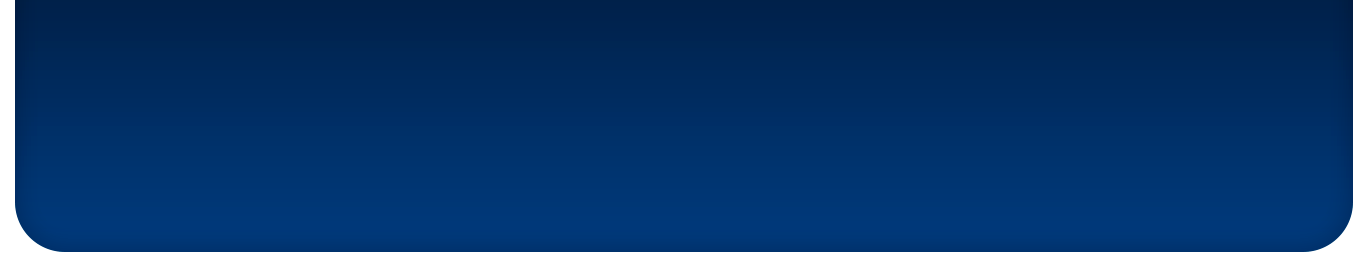
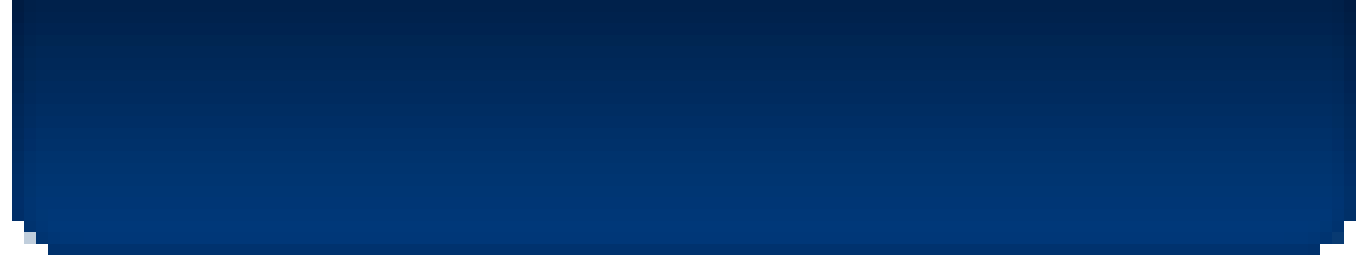
feat: use pixel art

diff --git a/src/widgets/game-stats/ui/GameStats.ts b/src/widgets/game-stats/ui/GameStats.ts
@@ -30,11 +30,11 @@ export class GameStats extends Container {
 
   private createAttemptsLeftText() {
     const text = new Text('', {
-      fontSize: 270,
+      fontSize: 200,
     });
     text.anchor.set(0.5);
-    text.x = this.frame.width * 0.5;
-    text.y = this.frame.height * 0.29;
+    text.x = this.frame.width * 0.51;
+    text.y = this.frame.height * 0.3;
 
     return text;
   }
@@ -53,12 +53,12 @@ export class GameStats extends Container {
 
   private createScoreValueText() {
     const text = new Text('0', {
-      fontSize: 200,
+      fontSize: 160,
     });
 
     text.anchor.set(0.5);
     text.x = this.frame.width * 0.5;
-    text.y = this.frame.height * 0.77;
+    text.y = this.frame.height * 0.79;
 
     return text;
   }

diff --git a/src/widgets/game-stats/ui/Score.ts b/src/widgets/game-stats/ui/Score.ts
@@ -22,7 +22,7 @@ export class Score extends Container {
 
   private createScoreLabel() {
     const text = new Text('score', {
-      fontSize: 190,
+      fontSize: 130,
     });
 
     text.anchor.set(0.5);
@@ -34,12 +34,12 @@ export class Score extends Container {
 
   private createScoreValueText() {
     const text = new Text('0', {
-      fontSize: 250,
+      fontSize: 150,
     });
 
     text.anchor.set(0.5);
     text.x = this.frame.width * 0.5;
-    text.y = this.frame.height * 0.285;
+    text.y = this.frame.height * 0.3;
 
     return text;
   }

diff --git a/src/shared/ui/Timer.ts b/src/shared/ui/Timer.ts
@@ -13,7 +13,7 @@ export class Timer extends Container {
     this.frame.anchor.set(0.5, 0);
     this.addChild(this.frame, this.timer);
     this.frame.scale.set(0.5, 1);
-    this.timer.y = this.frame.height * 0.4;
+    this.timer.y = this.frame.height * 0.45;
   }
 
   public setTime(ms: number) {
@@ -23,7 +23,7 @@ export class Timer extends Container {
 
   private createTimer() {
     const text = new Text('', {
-      fontSize: 200,
+      fontSize: 150,
     });
     text.anchor.set(0.5);
     return text;

diff --git a/src/pages/main-menu/ui/MainMenu.ts b/src/pages/main-menu/ui/MainMenu.ts
@@ -19,8 +19,8 @@ export class MainMenu extends Scene {
   private title = this.createTitleText();
 
   protected create() {
-    this.playClassicButton = new Button('classic mode', 2);
-    this.playTimerButton = new Button('timer mode', 2);
+    this.playClassicButton = new Button('CLASSIC', 2);
+    this.playTimerButton = new Button('TIMER', 2);
     this.bgGrid = new AnimatedGrid(1000, 1000);
 
     this.view.addChild(

diff --git a/src/shared/ui/Text.ts b/src/shared/ui/Text.ts
@@ -2,8 +2,8 @@ import { TextStyle, Text as PixiText, type TextStyleOptions } from 'pixi.js';
 
 const defaultTextStyle: Partial<TextStyleOptions> = {
   fill: 0xffffff,
-  fontFamily: 'LuckiestGuy-Regular',
-  fontSize: 80,
+  fontFamily: 'PublicPixel',
+  fontSize: 70,
 };
 
 export class Text extends PixiText {
